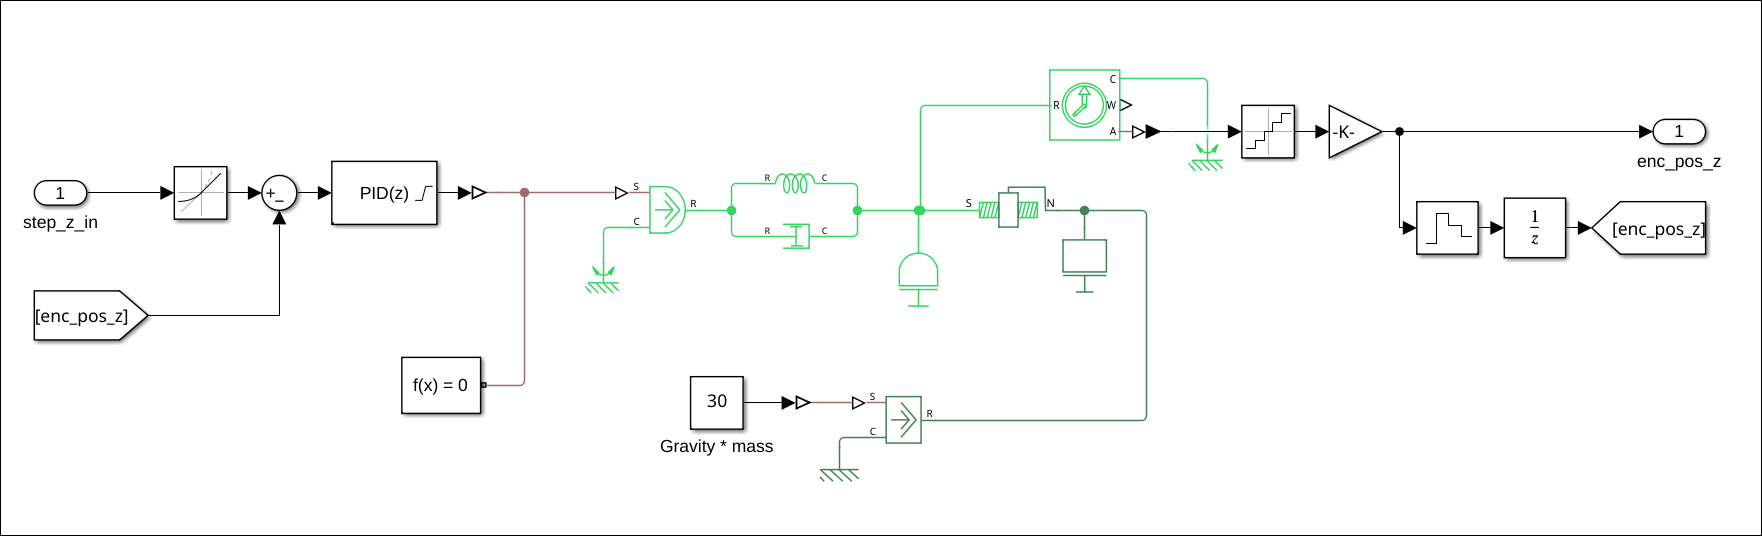
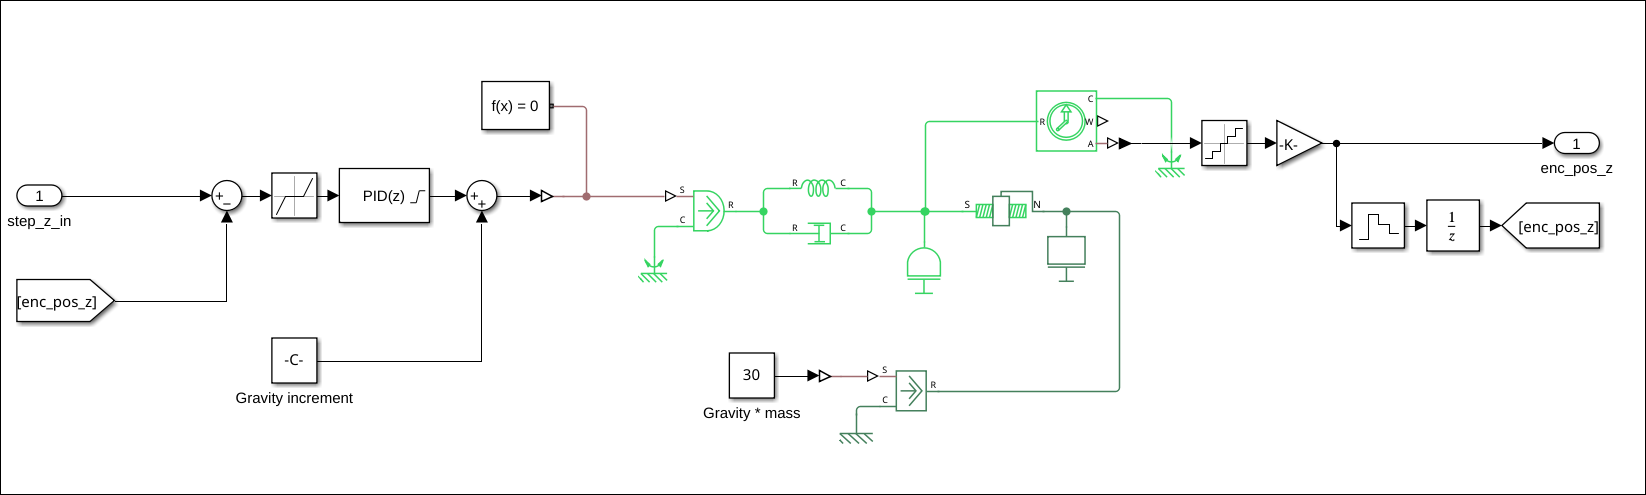
Built site for gh-pages

diff --git a/modeling.html b/modeling.html
@@ -346,6 +346,7 @@ window.Quarto = {
   <ul class="collapse">
   <li><a href="#control-sub-model-1" id="toc-control-sub-model-1" class="nav-link" data-scroll-target="#control-sub-model-1"><span class="header-section-number">1.4.1</span> Control sub-Model</a></li>
   <li><a href="#physical-plant-sub-model-1" id="toc-physical-plant-sub-model-1" class="nav-link" data-scroll-target="#physical-plant-sub-model-1"><span class="header-section-number">1.4.2</span> Physical Plant sub-Model</a></li>
+  <li><a href="#coupled-dynamics-the-pendulum-effect-and-tangential-kickback" id="toc-coupled-dynamics-the-pendulum-effect-and-tangential-kickback" class="nav-link" data-scroll-target="#coupled-dynamics-the-pendulum-effect-and-tangential-kickback"><span class="header-section-number">1.4.3</span> Coupled Dynamics: The Pendulum Effect and Tangential Kickback</a></li>
   </ul></li>
   <li><a href="#z-vertical-positioning-axis" id="toc-z-vertical-positioning-axis" class="nav-link" data-scroll-target="#z-vertical-positioning-axis"><span class="header-section-number">1.5</span> Z: Vertical Positioning Axis</a>
   <ul class="collapse">
@@ -386,13 +387,13 @@ window.Quarto = {
 <ul>
 <li><strong>Zero-Order Hold (ZOH):</strong> Applied to the continuous feedback signals (position and velocity) entering the controller. This mimics the finite sampling rate of the microcontroller’s timers and real-time.</li>
 <li><strong>Unit Delay (<span class="math inline">\(z^{-1}\)</span>):</strong> Placed between the controller’s PWM output and the plant’s input. This breaks the algebraic loop, accurately simulating the computational delay (e.g., 100 <span class="math inline">\(\mu s\)</span>) between reading the encoders and updating the motor driver.</li>
-<li><div class="quarto-figure quarto-figure-center">
-<figure class="figure">
-<p><a href="images/overall.png" class="lightbox" data-gallery="quarto-lightbox-gallery-1" title="overall"><img src="images/overall.png" class="img-fluid figure-img" alt="overall"></a></p>
-<figcaption>overall</figcaption>
-</figure>
-</div></li>
 </ul>
+<div class="quarto-figure quarto-figure-center">
+<figure class="figure">
+<p><a href="images/overall.png" class="lightbox" data-gallery="quarto-lightbox-gallery-1" title="Overall"><img src="images/overall.png" class="img-fluid figure-img" alt="Overall"></a></p>
+<figcaption>Overall</figcaption>
+</figure>
+</div>
 </section>
 <section id="x-extruder-axis" class="level2" data-number="1.3">
 <h2 data-number="1.3" class="anchored" data-anchor-id="x-extruder-axis"><span class="header-section-number">1.3</span> X: Extruder Axis</h2>
@@ -455,20 +456,24 @@ window.Quarto = {
 <section id="physical-plant-sub-model-1" class="level3" data-number="1.4.2">
 <h3 data-number="1.4.2" class="anchored" data-anchor-id="physical-plant-sub-model-1"><span class="header-section-number">1.4.2</span> Physical Plant sub-Model</h3>
 <p>The core physical network (<code>machine_y</code>), encompassing the electro-mechanical conversion (DC Motor) and the flexible transmission (belt elasticity and damping), remains structurally identical to the extruder axis. However, the load characteristics are significantly more complex due to the multi-axis mechanical linkages.</p>
-<section id="coupled-mass-and-parasitic-dynamics-of-pitch-rotation" class="level4" data-number="1.4.2.1">
-<h4 data-number="1.4.2.1" class="anchored" data-anchor-id="coupled-mass-and-parasitic-dynamics-of-pitch-rotation"><span class="header-section-number">1.4.2.1</span> Coupled Mass and Parasitic Dynamics of Pitch Rotation</h4>
-<p>The primary distinction in the Y-axis physical model lies in the <strong>Mass</strong> block and its external inputs. The Y-axis carriage supports the entire printing plate and the rotating cradle (Pitch axis).</p>
-<p>Crucially, because the center of gravity of the cradle is not perfectly aligned with the Y-axis linear guides, any rotational acceleration of the Pitch axis generates a leverage effect. This results in parasitic linear reaction forces (kickback) acting directly on the Y-axis carriage. To accurately simulate this coupled dynamic, the Y-axis mass system is modeled to receive these reaction forces as external physical disturbances. This ensures the simulation accurately represents the real-world scenario where the Y-axis cascade controller must actively reject sudden load changes to maintain tracking accuracy during simultaneous 5-axis movements.</p>
+</section>
+<section id="coupled-dynamics-the-pendulum-effect-and-tangential-kickback" class="level3" data-number="1.4.3">
+<h3 data-number="1.4.3" class="anchored" data-anchor-id="coupled-dynamics-the-pendulum-effect-and-tangential-kickback"><span class="header-section-number">1.4.3</span> Coupled Dynamics: The Pendulum Effect and Tangential Kickback</h3>
+<p>The primary distinction in the Y-axis physical model lies in the Mass block and its external inputs. The Y-axis carriage supports the entire printing plate and the rotating cradle (Pitch axis), introducing severe parasitic dynamics that the control loops must mathematically reject.</p>
+<ul>
+<li><p>The Pendulum Effect (Gravity Bias): Unlike a perfectly balanced rotational load, the Center of Gravity (CG) of the Pitch cradle is mechanically offset from its axis of rotation. Consequently, gravity continuously exerts a variable torque on the Pitch axis. This is calculated using the exact physical formula: <span class="math inline">\(\tau_{g} = m \cdot g \cdot d_{CG} \cdot \sin(\theta_{pitch})\)</span>, where <span class="math inline">\(m\)</span> is the mass of the cradle, <span class="math inline">\(g\)</span> is the gravitational acceleration (<span class="math inline">\(9.81 m/s^2\)</span>), and <span class="math inline">\(d_{CG}\)</span> is the offset distance of the center of gravity. This introduces a non-linear pendulum effect. In the model, this is simulated using a trigonometric function block fed by the instantaneous pitch angle, which dynamically calculates and injects this gravitational load into the rotational physical network.</p></li>
+<li><p>Tangential Kickback (Reaction Force): Furthermore, the Pitch and Y axes are strictly coupled through Newton’s Third Law. Whenever the Pitch stepper motor violently accelerates the heavy cradle, an equal and opposite reaction torque is exerted on the motor’s stator, which is rigidly mounted to the Y-axis carriage. Because of the geometric lever arm (<span class="math inline">\(h\)</span>), this reaction torque translates into a tangential linear force (kickback) acting directly along the Y-axis guides.</p></li>
+</ul>
+<p>To accurately capture this multi-domain coupling without resorting to computationally heavy 3D Multibody DAE solvers, an active signal routing technique is implemented in Simscape: an Ideal Torque Sensor measures the rotational effort of the cradle, scales it by the inverse of the center of percussion distance (<span class="math inline">\(1/h\)</span>), and injects it back into the Y-axis translational node via an Ideal Force Source. This ensures the Digital Twin faithfully represents the sudden linear disturbances the Y-axis cascade controller must actively counteract during simultaneous 5-axis movements.</p>
 <div class="quarto-figure quarto-figure-center">
 <figure class="figure">
 <p><a href="images/model_y.png" class="lightbox" data-gallery="quarto-lightbox-gallery-4" title="model_y"><img src="images/model_y.png" class="img-fluid figure-img" alt="model_y"></a></p>
 <figcaption>model_y</figcaption>
 </figure>
 </div>
-</section>
-<section id="yaw-rotating-printing-plate" class="level4" data-number="1.4.2.2">
-<h4 data-number="1.4.2.2" class="anchored" data-anchor-id="yaw-rotating-printing-plate"><span class="header-section-number">1.4.2.2</span> Yaw-Rotating Printing Plate</h4>
-<p>On the other hand, the printing plate also rotates on its own Z axis, resulting the 5 global printing axis. The model of the rotating plate is basically the same of the rotating Y-axis carriage, by differentiating it just for the mass and damping values.</p>
+<section id="yaw-rotating-printing-plate" class="level4" data-number="1.4.3.1">
+<h4 data-number="1.4.3.1" class="anchored" data-anchor-id="yaw-rotating-printing-plate"><span class="header-section-number">1.4.3.1</span> Yaw-Rotating Printing Plate</h4>
+<p>On the other hand, the printing plate also rotates on its own Z-axis, defining the 5th global printing axis. The rotational model of the Yaw plate is structurally similar to the Pitch axis, differentiated primarily by its specific inertial mass and viscous damping values. Since its axis of rotation is orthogonal to the Y-axis translation, its dynamic coupling is less invasive compared to the Pitch kickback.</p>
 </section>
 </section>
 </section>
@@ -513,7 +518,11 @@ window.Quarto = {
 <section id="residual-error-and-the-need-for-adaptation" class="level3" data-number="1.6.2">
 <h3 data-number="1.6.2" class="anchored" data-anchor-id="residual-error-and-the-need-for-adaptation"><span class="header-section-number">1.6.2</span> Residual Error and the Need for Adaptation</h3>
 <p>The residual tracking errors expose a fundamental limitation of static modeling: <strong>parameter variability</strong>.</p>
-<p>While geometric constants (like the center of gravity distance <span class="math inline">\(d_{CG}\)</span> or motor torque constants <span class="math inline">\(K_t\)</span>) remain fixed, other crucial parameters change continuously during operation: 1. <strong>Dynamic Payload:</strong> The equivalent mass of the Y-axis and the rotational inertia of the Pitch and Yaw axes increase steadily as plastic material is extruded onto the printing plate. 2. <strong>Thermal Variations:</strong> The viscous friction coefficients (<span class="math inline">\(B\)</span>) of the linear guides and the belt damping factors vary as the mechanical components heat up during long printing sessions.</p>
+<p>While geometric constants (like the center of gravity distance <span class="math inline">\(d_{CG}\)</span> or motor torque constants <span class="math inline">\(K_t\)</span>) remain fixed, other crucial parameters change continuously during operation:</p>
+<ol type="1">
+<li><strong>Dynamic Payload:</strong> The equivalent mass of the Y-axis and the rotational inertia of the Pitch and Yaw axes increase steadily as plastic material is extruded onto the printing plate.</li>
+<li><strong>Thermal Variations:</strong> The viscous friction coefficients (<span class="math inline">\(B\)</span>) of the linear guides and the belt damping factors vary as the mechanical components heat up during long printing sessions.</li>
+</ol>
 <p>Relying on a statically calibrated FMU would lead to a progressive deterioration of the feedforward compensation and model-predictive features. To bridge this gap and achieve perfect alignment between the Digital Twin and the physical machine, the static parameters must be dynamically updated. This requirement naturally introduces the implementation of an <strong>Online Parameter Identification</strong> strategy.</p>
 
 